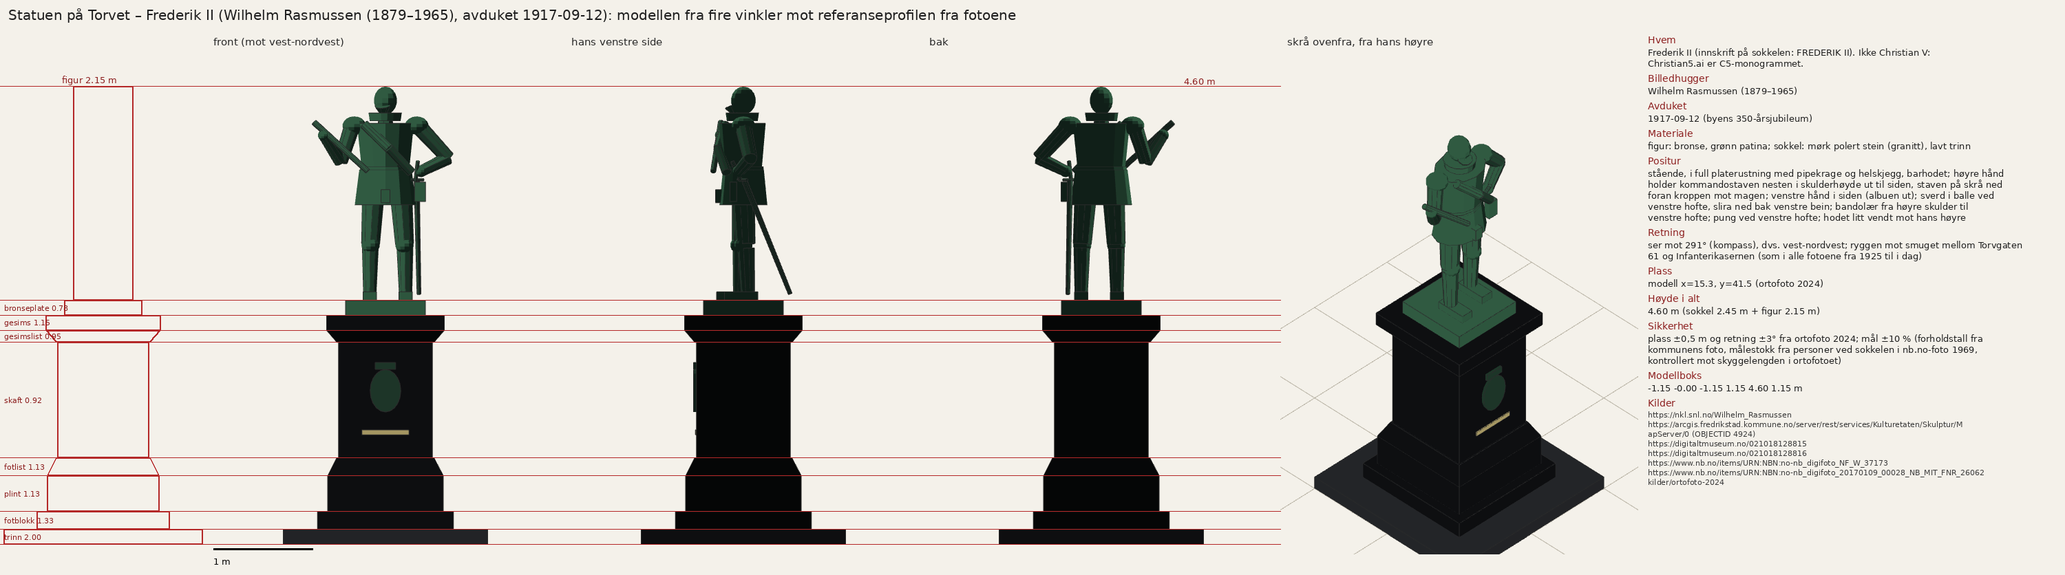
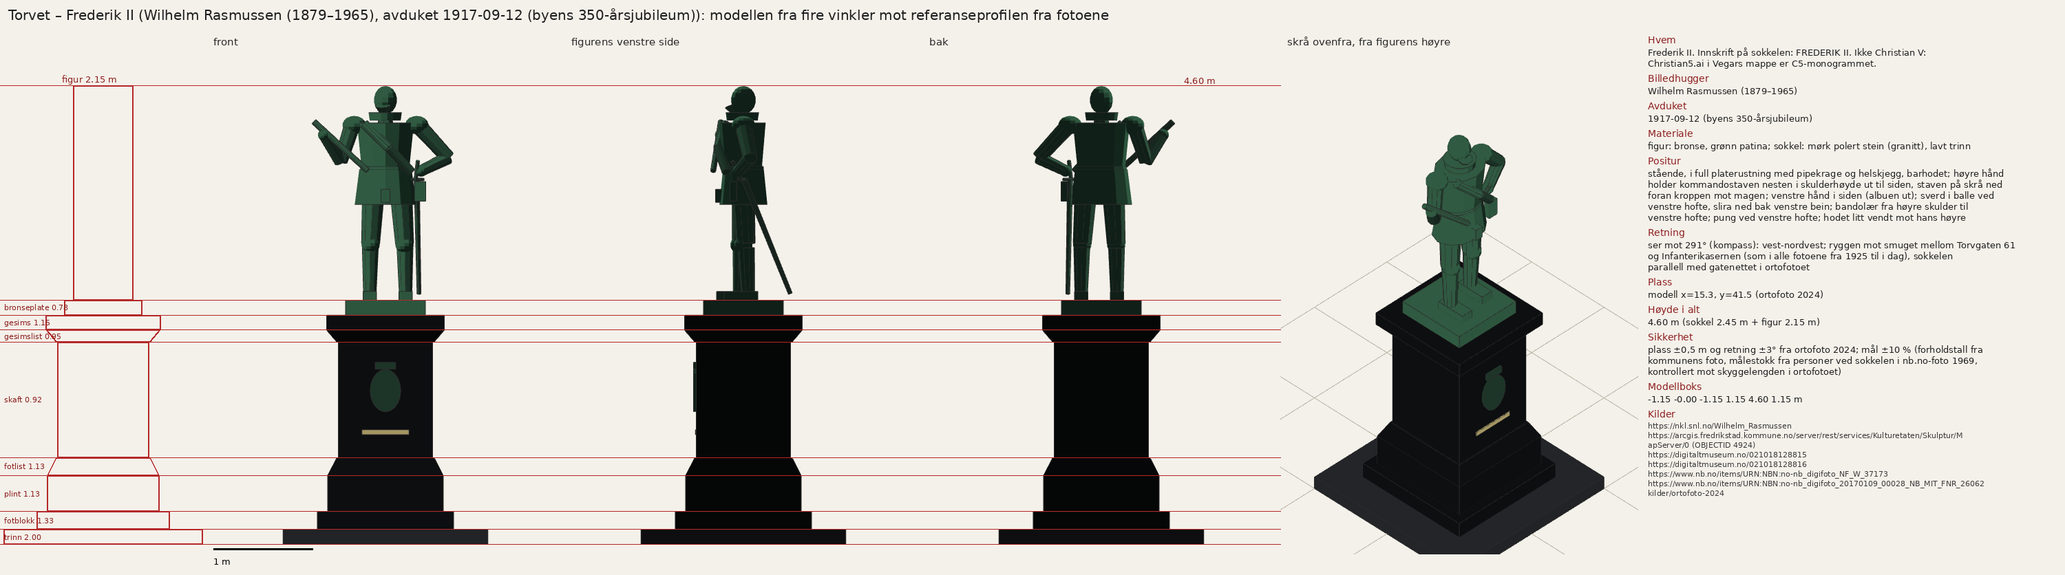
Sittende pike (Arne Durban, 1957–58) i Tamburparken, Vigelands minneplater i dataene; statuekoden generell (figur.form)
- data/statue.json: Sittende pike med plass fra ortofoto 2024, retning og mål fra fotoene; to minneplater med tegnes:false (bare kommunens punkt)
- src/20: FIGUR per form (rustning_stav, knelende_pike), sokkelledd med dybde og steinfarge fra dataene
- regel 22 og kontrollarkene gjelder alle postene

Claude-Session: https://claude.ai/code/session_01WG8cVDwFDBJncy2QxLUQWP

diff --git a/src/20_statuen-paa-torvet.js b/src/20_statuen-paa-torvet.js
@@ -1,77 +1,97 @@
-// ---- Statuen på Torvet: Frederik II (Wilhelm Rasmussen, bronse, avduket 12.09.1917) ----
+// ---- Statuer og skulpturer: Frederik II på Torvet (Wilhelm Rasmussen 1917), «Sittende pike» i Tamburparken (Arne Durban 1957/58) ----
 // Alle mål, retning og plass står i data/statue.json med kilder (KILDER.md). Koden tegner bare det dataene sier:
-// sokkelen er en stabel av kvadratiske ledd (b = bredde, b2 = bredde i toppen for skrå lister), figuren står på toppen
-// i sin egen ramme (+z = fram, -x = hans høyre side, føttene i y = 0) og skaleres til figur.h.
-// Retning: kompassgrader (0 = nord, med klokka) for veien statuen ser. Ny statue = ny post i dataene, ingen ny kode.
-(DATA.statue||[]).forEach(st=>{
+// sokkelen er en stabel av ledd (b = bredde, d = dybde om leddet ikke er kvadratisk, b2 = bredde i toppen for skrå lister,
+// stein: mørk | lys | bronse), figuren står på toppen i sin egen ramme (+z = fram, -x = figurens høyre side, y = 0 på sokkelen)
+// og skaleres til figur.h. figur.form velger figuren i FIGUR (en ny form = en ny funksjon her; en ny statue med kjent form = bare data).
+// Retning: kompassgrader (0 = nord, med klokka) for veien figuren ser. Poster med tegnes:false (plass ikke sikker) tegnes ikke.
+(()=>{
+const STEINFARGE={ 'mørk':[[66,68,72],[40,41,44]], lys:[[178,176,170],[124,122,118]], trinn:[[104,106,110],[66,67,70]], bronse:[[120,160,138],[70,98,86]] };
+const PATINA=[120,160,138], PATINA_S=[70,98,86], RELIEFF=[96,128,112], GULL=[214,206,170];
+const V=(a,b,c)=>new THREE.Vector3(a,b,c);
+// figurene: får verktøyene (del, lem, kule) og returnerer modellhøyden (isse over sokkelen) som figur.h skalerer til
+const FIGUR={
+  // Frederik II: platerustning, kommandostav i høyre hånd, venstre hånd i siden. Målene er lest av kommunens frontfoto (kunstregisteret,
+  // OBJECTID 4924) som andeler av høyden føtter–isse (kne 0,25, hoseskant 0,44, belte 0,59, skulder 0,81, hake 0,88),
+  // kontrollert mot Wilse 1931 og nb.no 1969.
+  rustning_stav({k,del,lem,kule}){
+    [[-0.14,0.03],[0.18,-0.04]].forEach(([fx,fz])=>{
+      del(new THREE.BoxGeometry(0.12,0.08,0.30),fx,0.04,fz+0.06);                // jernsko
+      lem(V(fx,0.08,fz),V(fx*0.97,0.48,fz*0.6),0.06,0.075);                     // legg
+      kule(0.082,V(fx*0.95,0.51,fz*0.5+0.02));                                   // kne
+      lem(V(fx*0.95,0.52,fz*0.5),V(fx*0.8,0.92,0),0.085,0.10);                  // lår
+    });
+    del(new THREE.CylinderGeometry(0.235,0.275,0.32,12),0,1.04,0).scale.set(1,1,0.78);   // pluderhoser/lårplater
+    del(new THREE.BoxGeometry(0.08,0.12,0.08),0,0.96,0.21);                      // skamkapsel
+    del(new THREE.CylinderGeometry(0.225,0.23,0.05,12),0,1.205,0).scale.set(1,1,0.8);    // belte
+    del(new THREE.CylinderGeometry(0.255,0.215,0.40,12),0,1.43,0.01).scale.set(1,1,0.82); // brystharnisk
+    kule(0.105,V(-0.28,1.61,0),1,0.8,1); kule(0.105,V(0.28,1.61,0),1,0.8,1);     // skulderplater
+    lem(V(-0.19,1.62,0.16),V(0.03,1.40,0.225),0.042,0.042); lem(V(0.03,1.40,0.225),V(0.23,1.18,0.15),0.042,0.042);   // bandolær
+    const hode=new THREE.Group(); hode.position.set(0,1.66,0.0); hode.rotation.y=-0.26; k.add(hode);             // litt mot hans høyre
+    del(new THREE.CylinderGeometry(0.06,0.07,0.12,8),0,0.0,0,hode);              // hals
+    del(new THREE.CylinderGeometry(0.15,0.14,0.07,16),0,0.03,0.01,hode);         // pipekrage
+    kule(0.115,V(0,0.18,0.0),0.92,1.12,1,hode);                                  // hode
+    const skjegg=del(new THREE.ConeGeometry(0.07,0.13,8),0,0.07,0.08,hode); skjegg.rotation.x=Math.PI+0.35;
+    const hS=V(-0.30,1.60,0), hA=V(-0.40,1.28,0.08), hH=V(-0.55,1.52,0.2);      // høyre arm, hånda nesten i skulderhøyde
+    lem(hS,hA,0.072,0.062); lem(hA,hH,0.06,0.05); kule(0.055,hH);
+    lem(V(-0.64,1.64,0.2),V(-0.16,1.19,0.27),0.026,0.024);                      // staven: litt over hånda, ned mot magen
+    const vS=V(0.30,1.60,0), vA=V(0.56,1.31,-0.06), vH=V(0.32,1.19,0.04);       // venstre arm i siden
+    lem(vS,vA,0.072,0.062); lem(vA,vH,0.06,0.05); kule(0.055,vH);
+    lem(V(0.27,1.10,0.02),V(0.29,1.28,0.1),0.016,0.016);                        // hjalt
+    lem(V(0.22,1.11,0.05),V(0.34,1.11,-0.03),0.012,0.012);                      // parerstang
+    lem(V(0.28,1.10,-0.01),V(0.30,0.06,-0.42),0.024,0.018);                     // slire bak venstre bein
+    del(new THREE.BoxGeometry(0.1,0.18,0.06),0.31,1.0,0.09);                    // pung
+    return 1.97;
+  },
+  // «Sittende pike»: naken jente som sitter på hælene, armene strake ned med hendene på knærne, overkroppen litt fram, hodet løftet
+  // (Fredrikstad Museum-foto 1958 og kommunens foto). Modellen er 0,88 til isse.
+  knelende_pike({k,del,lem,kule}){
+    [-0.1,0.1].forEach(sx=>{
+      lem(V(sx,0.06,0.30),V(sx*0.9,0.05,-0.12),0.055,0.045);                    // legg på sokkelen, kne fram
+      kule(0.06,V(sx,0.07,0.31));                                                // kne
+      lem(V(sx,0.08,0.30),V(sx*0.8,0.2,-0.06),0.065,0.085);                     // lår ned mot hælene
+    });
+    kule(0.15,V(0,0.2,-0.08),1.05,0.8,0.9);                                      // hofte/sete på hælene
+    lem(V(0,0.22,-0.07),V(0,0.62,0.03),0.12,0.105).scale.set(1,1,0.75);          // overkropp, litt fram
+    const skS=[V(-0.12,0.6,0.04),V(0.12,0.6,0.04)], hand=[V(-0.1,0.13,0.34),V(0.1,0.13,0.34)];
+    [0,1].forEach(i=>{ lem(skS[i],hand[i],0.035,0.028); kule(0.032,hand[i],1,0.7,1.3); });   // strake armer, hender på knærne
+    lem(V(0,0.62,0.04),V(0,0.7,0.06),0.035,0.035);                               // hals
+    const hode=new THREE.Group(); hode.position.set(0,0.78,0.08); hode.rotation.set(-0.2,-0.15,0); k.add(hode);   // løftet, litt til siden
+    kule(0.075,V(0,0,0),0.9,1.08,1,hode); kule(0.08,V(0,0.03,-0.015),1,0.9,1,hode);          // ansikt og hår (kort, fyldig)
+    return 0.88;
+  },
+};
+(DATA.statue||[]).filter(st=>st.tegnes!==false && st.figur && FIGUR[st.figur.form]).forEach(st=>{
   const g=new THREE.Group(); const [x,y]=st.xy;
-  const STEIN=[66,68,72], STEIN_S=[40,41,44], TRINN=[104,106,110], TRINN_S=[66,67,70];
-  const PATINA=[120,160,138], PATINA_S=[70,98,86], RELIEFF=[96,128,112], GULL=[214,206,170];
   const M=(f,sk)=>mat(f,false,sk,{ds:true});
   const legg=(geo,f,sk,px,py,pz,forelder=g)=>{ const m=new THREE.Mesh(geo,M(f,sk)); m.position.set(px,py,pz); m.castShadow=true; m.receiveShadow=true; forelder.add(m); return m; };
-  // kvadratisk ledd: rett blokk, eller avkortet pyramide (4 sider, dreid 45° så sidene står rett) når b2 er gitt
-  const ledd=(b,b2,h,y0,f,sk)=> b2==null
-    ? legg(new THREE.BoxGeometry(b,h,b),f,sk,0,y0+h/2,0)
-    : (m=>{ m.rotation.y=Math.PI/4; return m; })(legg(new THREE.CylinderGeometry(b2/Math.SQRT2,b/Math.SQRT2,h,4,1),f,sk,0,y0+h/2,0));
-  let y0=0, skaft=null;
+  // ledd: rett blokk (b x d), eller avkortet pyramide (4 sider, dreid 45°, så sidene står rett) når b2 er gitt (bare kvadratisk)
+  const ledd=(l,y0,f,sk)=> l.b2==null
+    ? legg(new THREE.BoxGeometry(l.b,l.h,l.d||l.b),f,sk,0,y0+l.h/2,0)
+    : (m=>{ m.rotation.y=Math.PI/4; return m; })(legg(new THREE.CylinderGeometry(l.b2/Math.SQRT2,l.b/Math.SQRT2,l.h,4,1),f,sk,0,y0+l.h/2,0));
+  let y0=0, front=null;
   (st.sokkel||[]).forEach(l=>{
-    const [f,sk]= l.del==='trinn' ? [TRINN,TRINN_S] : l.del==='bronseplate' ? [PATINA,PATINA_S] : [STEIN,STEIN_S];
-    ledd(l.b, l.b2, l.h, y0, f, sk);
-    if(l.del==='skaft') skaft={y0, h:l.h, b:l.b};
+    const stein=l.stein || (l.del==='trinn' ? 'trinn' : l.del==='bronseplate' ? 'bronse' : 'mørk');
+    const [f,sk]=STEINFARGE[stein]||STEINFARGE['mørk'];
+    ledd(l,y0,f,sk);
+    if(l.front) front={y0, h:l.h, d:l.d||l.b};
     y0+=l.h;
   });
-  // fronten på skaftet: kronet riksvåpen (relieff) over innskriften FREDERIK II (lys, som i fotoene)
-  if(skaft){ const zf=skaft.b/2+0.012;
-    const skjold=legg(new THREE.CylinderGeometry(0.15,0.15,0.03,20),RELIEFF,PATINA_S,0,skaft.y0+skaft.h*0.58,zf); skjold.rotation.x=Math.PI/2; skjold.scale.set(1,1,1.42);
-    legg(new THREE.BoxGeometry(0.2,0.07,0.03),RELIEFF,PATINA_S,0,skaft.y0+skaft.h*0.58+0.25,zf);            // krona
-    legg(new THREE.BoxGeometry(0.46,0.05,0.01),GULL,[150,144,116],0,skaft.y0+skaft.h*0.22,zf-0.008);          // innskriften
+  // fronten (leddet med «front» i dataene): kronet riksvåpen (relieff) over innskriften, som på Frederik II
+  if(front){ const zf=front.d/2+0.012;
+    const skjold=legg(new THREE.CylinderGeometry(0.15,0.15,0.03,20),RELIEFF,PATINA_S,0,front.y0+front.h*0.58,zf); skjold.rotation.x=Math.PI/2; skjold.scale.set(1,1,1.42);
+    legg(new THREE.BoxGeometry(0.2,0.07,0.03),RELIEFF,PATINA_S,0,front.y0+front.h*0.58+0.25,zf);            // krona
+    legg(new THREE.BoxGeometry(0.46,0.05,0.01),GULL,[150,144,116],0,front.y0+front.h*0.22,zf-0.008);          // innskriften
   }
-  // ---- figuren ----
   const k=new THREE.Group(); k.position.y=y0; g.add(k);
-  const V=(a,b,c)=>new THREE.Vector3(a,b,c);
   const del=(geo,px,py,pz,forelder=k)=>legg(geo,PATINA,PATINA_S,px,py,pz,forelder);
-  // lem mellom to punkter: sylinder med radius r1 (i a) og r2 (i b)
   const lem=(a,b,r1,r2,forelder=k)=>{ const d=b.clone().sub(a), L=d.length(); const m=del(new THREE.CylinderGeometry(r2,r1,L,10),(a.x+b.x)/2,(a.y+b.y)/2,(a.z+b.z)/2,forelder);
     m.quaternion.setFromUnitVectors(V(0,1,0), d.normalize()); return m; };
   const kule=(r,p,sx=1,sy=1,sz=1,forelder=k)=>{ const m=del(new THREE.SphereGeometry(r,12,9),p.x,p.y,p.z,forelder); m.scale.set(sx,sy,sz); return m; };
-  // bein: føttene ca. 0,3 m fra hverandre, venstre (+x) litt ut og bak; leggskinner, kneskåler, lårskinner
-  // Målene i figurens ramme er lest av kommunens frontfoto (kunstregisteret, OBJECTID 4924) som andeler av høyden føtter–isse
-  // (kne 0,25, hoseskant 0,44, belte 0,59, skulder 0,81, hake 0,88), kontrollert mot Wilse 1931 og nb.no 1969.
-  [[-0.14,0.03],[0.18,-0.04]].forEach(([fx,fz])=>{
-    del(new THREE.BoxGeometry(0.12,0.08,0.30),fx,0.04,fz+0.06);                // jernsko
-    lem(V(fx,0.08,fz),V(fx*0.97,0.48,fz*0.6),0.06,0.075);                     // legg
-    kule(0.082,V(fx*0.95,0.51,fz*0.5+0.02));                                   // kne
-    lem(V(fx*0.95,0.52,fz*0.5),V(fx*0.8,0.92,0),0.085,0.10);                  // lår
-  });
-  // pluderhoser/lårplater til hoseskanten, belte, brystharnisk (dypere foran: «peascod»)
-  del(new THREE.CylinderGeometry(0.235,0.275,0.32,12),0,1.04,0).scale.set(1,1,0.78);
-  del(new THREE.BoxGeometry(0.08,0.12,0.08),0,0.96,0.21);                      // skamkapsel
-  del(new THREE.CylinderGeometry(0.225,0.23,0.05,12),0,1.205,0).scale.set(1,1,0.8);
-  del(new THREE.CylinderGeometry(0.255,0.215,0.40,12),0,1.43,0.01).scale.set(1,1,0.82);
-  kule(0.105,V(-0.28,1.61,0),1,0.8,1); kule(0.105,V(0.28,1.61,0),1,0.8,1);     // skulderplater
-  // bandolær fra høyre skulder til venstre hofte, foran på harnisket
-  lem(V(-0.19,1.62,0.16),V(0.03,1.40,0.225),0.042,0.042); lem(V(0.03,1.40,0.225),V(0.23,1.18,0.15),0.042,0.042);
-  // hode: pipekrage, hode, helskjegg; vendt litt mot hans høyre
-  const hode=new THREE.Group(); hode.position.set(0,1.66,0.0); hode.rotation.y=-0.26; k.add(hode);
-  del(new THREE.CylinderGeometry(0.06,0.07,0.12,8),0,0.0,0,hode);              // hals
-  del(new THREE.CylinderGeometry(0.15,0.14,0.07,16),0,0.03,0.01,hode);         // pipekrage
-  kule(0.115,V(0,0.18,0.0),0.92,1.12,1,hode);                                  // hode
-  const skjegg=del(new THREE.ConeGeometry(0.07,0.13,8),0,0.07,0.08,hode); skjegg.rotation.x=Math.PI+0.35;
-  // høyre arm: albuen ned og ut, underarm opp; hånda nesten i skulderhøyde godt utenfor kroppen holder kommandostaven
-  const hS=V(-0.30,1.60,0), hA=V(-0.40,1.28,0.08), hH=V(-0.55,1.52,0.2);
-  lem(hS,hA,0.072,0.062); lem(hA,hH,0.06,0.05); kule(0.055,hH);
-  lem(V(-0.64,1.64,0.2),V(-0.16,1.19,0.27),0.026,0.024);                      // staven: litt over hånda, ned mot magen
-  // venstre arm i siden: albuen ut, hånda på hofta
-  const vS=V(0.30,1.60,0), vA=V(0.56,1.31,-0.06), vH=V(0.32,1.19,0.04);
-  lem(vS,vA,0.072,0.062); lem(vA,vH,0.06,0.05); kule(0.055,vH);
-  // sverd ved venstre hofte: hjalt og parerstang, slira på skrå ned bak venstre bein; pung foran
-  lem(V(0.27,1.10,0.02),V(0.29,1.28,0.1),0.016,0.016);                        // hjalt
-  lem(V(0.22,1.11,0.05),V(0.34,1.11,-0.03),0.012,0.012);                      // parerstang
-  lem(V(0.28,1.10,-0.01),V(0.30,0.06,-0.42),0.024,0.018);                     // slire
-  del(new THREE.BoxGeometry(0.1,0.18,0.06),0.31,1.0,0.09);                    // pung
-  k.scale.setScalar(((st.figur||{}).h||2.15)/1.97);                           // modellen er 1,97 m til isse
+  const hoyde=FIGUR[st.figur.form]({k,del,lem,kule});
+  k.scale.setScalar(st.figur.h/hoyde);
   // retning: kompassgrader -> rotasjon om y (lokal +z = fram); verden: x = øst, -z = nord
   const b=(st.retning||0)*Math.PI/180; g.rotation.y=Math.atan2(Math.sin(b),-Math.cos(b));
   g.scale.setScalar(st.visningsskala||1);
-  g.position.set(x,0,-y); g.userData={b:{navn:st.navn,adr:'Torvet',tekst:st.tekst}}; flatGruppe(g); city.add(g);
+  g.position.set(x,0,-y); g.userData={b:{navn:st.navn,adr:st.sted||'',tekst:st.tekst}}; flatGruppe(g); city.add(g);
 });
+})();

diff --git a/verktoy/statue_ark.py b/verktoy/statue_ark.py
@@ -1,5 +1,6 @@
 #!/usr/bin/env python3
-"""Kontrollark for statuen på Torvet: rapport/torvet/statue.png.
+"""Kontrollark for statuene og skulpturene i data/statue.json: rapport/torvet/statue.png (Frederik II, den første) og
+rapport/torvet/statue-<id>.png for de andre som tegnes.
 
     python3 verktoy/statue_ark.py
 
@@ -15,62 +16,65 @@ ROT = os.path.dirname(os.path.dirname(os.path.abspath(__file__)))
 UT = os.path.join(ROT, 'rapport', 'torvet'); os.makedirs(UT, exist_ok=True)
 import tempfile
 TMP = tempfile.mkdtemp(prefix='statue-')     # panelene er mellomprodukt
-subprocess.run(['node', os.path.join(ROT, 'verktoy', 'statue_ark.mjs'), os.path.join(TMP, 'statue.png')], check=True)
-meta = json.load(open(os.path.join(TMP, 'statue-vinkler.json'), encoding='utf8'))
-st = json.load(open(os.path.join(ROT, 'data', 'statue.json'), encoding='utf8'))[0]
-paneler = [Image.open(os.path.join(TMP, f'statue-{i}.png')).convert('RGB') for i in range(4)]
-W, H = paneler[0].size
-PXM = H / 5.25; Y0 = 2.4 - 2.5            # statue_ark.mjs: ortografisk, 5,25 m høyt, sentrum y = 2,4
-yp = lambda m: H - (m - Y0) * PXM         # meter over bakken -> rad i panelet (front/side/bak)
-def _skrift():
-    # en skrift med æøå: matplotlibs DejaVu (følger med pakken, samme på alle maskiner), ellers systemets, ellers Pillows innebygde
-    kand = []
-    try:
-        import matplotlib; kand.append(os.path.join(matplotlib.get_data_path(), 'fonts', 'ttf', 'DejaVuSans.ttf'))
-    except ImportError:
-        pass
-    kand += ['/usr/share/fonts/truetype/dejavu/DejaVuSans.ttf', '/Library/Fonts/Arial Unicode.ttf', '/System/Library/Fonts/Supplemental/Arial.ttf']
-    return next((k for k in kand if os.path.exists(k)), None)
-SKRIFT = _skrift()
-f = lambda s: ImageFont.truetype(SKRIFT, s) if SKRIFT else ImageFont.load_default(size=s)
-REF_W, TEKST_W, TOPP = 300, 620, 46
-ark = Image.new('RGB', (REF_W + 4 * W + TEKST_W, H + TOPP + 30), (244, 241, 234)); d = ImageDraw.Draw(ark)
-d.text((12, 10), f"Statuen på Torvet – {st['navn']} ({st['billedhugger']}, avduket {st['avduket']}): modellen fra fire vinkler mot referanseprofilen fra fotoene", fill=(30, 30, 30), font=f(20))
-# referanseprofil i samme målestokk
-cx = REF_W // 2; y = 0.0; linjer = []
-for l in st['sokkel']:
-    b0, b1 = l['b'], l.get('b2', l['b'])
-    pts = [(cx - b0 / 2 * PXM, TOPP + yp(y)), (cx + b0 / 2 * PXM, TOPP + yp(y)), (cx + b1 / 2 * PXM, TOPP + yp(y + l['h'])), (cx - b1 / 2 * PXM, TOPP + yp(y + l['h']))]
-    d.polygon(pts, outline=(180, 40, 40), width=2)
-    d.text((6, TOPP + yp(y + l['h'] / 2) - 7), f"{l['del']} {l['b']:.2f}", fill=(140, 30, 30), font=f(11))
-    y += l['h']; linjer.append(y)
-fh = st['figur']['h'] * st.get('visningsskala', 1)
-d.rectangle([cx - 0.3 * PXM, TOPP + yp(y + fh), cx + 0.3 * PXM, TOPP + yp(y)], outline=(180, 40, 40), width=2)
-d.text((cx - 60, TOPP + yp(y + fh) - 18), f"figur {st['figur']['h']:.2f} m", fill=(140, 30, 30), font=f(13))
-linjer.append(y + fh)
-for i, p in enumerate(paneler):
-    ark.paste(p, (REF_W + i * W, TOPP)); d.text((REF_W + i * W + 10, TOPP + 6), meta['vinkler'][i], fill=(40, 40, 40), font=f(15))
-for m in [0.0] + linjer:                   # hjelpelinjer gjennom referansen og de tre ortografiske panelene
-    yy = TOPP + yp(m); d.line([(0, yy), (REF_W + 3 * W, yy)], fill=(180, 40, 40), width=1)
-d.text((REF_W + 3 * W - 140, TOPP + yp(linjer[-1]) - 16), f"{linjer[-1]:.2f} m", fill=(140, 30, 30), font=f(13))
-# målestokk 1 m
-x0 = REF_W + 10; d.line([(x0, TOPP + H - 8), (x0 + PXM, TOPP + H - 8)], fill=(0, 0, 0), width=3); d.text((x0, TOPP + H + 2), '1 m', fill=(0, 0, 0), font=f(13))
-# tekst: hva kildene sier
-tx = REF_W + 4 * W + 14; ty = TOPP + 4
-rader = [('Hvem', f"{st['navn']} (innskrift på sokkelen: FREDERIK II). Ikke Christian V: Christian5.ai er C5-monogrammet."),
-         ('Billedhugger', st['billedhugger']), ('Avduket', f"{st['avduket']} (byens 350-årsjubileum)"),
-         ('Materiale', f"figur: {st['materiale']['figur']}; sokkel: {st['materiale']['sokkel']}"),
-         ('Positur', st['figur']['positur']), ('Retning', f"ser mot {st['retning']}° (kompass), dvs. vest-nordvest; ryggen mot smuget mellom Torvgaten 61 og Infanterikasernen (som i alle fotoene fra 1925 til i dag)"),
-         ('Plass', f"modell x={st['xy'][0]}, y={st['xy'][1]} (ortofoto 2024)"), ('Høyde i alt', f"{linjer[-1]:.2f} m (sokkel {linjer[-2]:.2f} m + figur {st['figur']['h']:.2f} m)"),
-         ('Sikkerhet', st['sikkerhet']), ('Modellboks', ' '.join(f'{v:.2f}' for v in meta['boks']) + ' m')]
-import textwrap
-for k, v in rader:
-    d.text((tx, ty), k, fill=(140, 30, 30), font=f(14)); ty += 18
-    for linje in textwrap.wrap(v, 78):
-        d.text((tx, ty), linje, fill=(30, 30, 30), font=f(13)); ty += 16
-    ty += 6
-d.text((tx, ty), 'Kilder', fill=(140, 30, 30), font=f(14)); ty += 18
-for k in st['kilder']:
-    for linje in textwrap.wrap(k, 82):
-        d.text((tx, ty), linje, fill=(60, 60, 60), font=f(11)); ty += 14
-ut = os.path.join(UT, 'statue.png'); ark.save(ut); print(ut, ark.size)
+alle = json.load(open(os.path.join(ROT, 'data', 'statue.json'), encoding='utf8'))
+for nr, st in enumerate([x for x in alle if x.get('tegnes', True)]):
+    subprocess.run(['node', os.path.join(ROT, 'verktoy', 'statue_ark.mjs'), os.path.join(TMP, 'statue.png'), str(nr)], check=True)
+    meta = json.load(open(os.path.join(TMP, 'statue-vinkler.json'), encoding='utf8'))
+    paneler = [Image.open(os.path.join(TMP, f'statue-{i}.png')).convert('RGB') for i in range(4)]
+    W, H = paneler[0].size
+    HT = sum(l['h'] for l in st['sokkel']) + st['figur']['h']; SK = max(HT * 1.14 / 5.25, 0.35)
+    PXM = H / (5.25 * SK); Y0 = (2.4 - 2.5) * SK   # statue_ark.mjs: ortografisk, 5,25*SK m høyt, sentrum y = 2,4*SK
+    yp = lambda m: H - (m - Y0) * PXM         # meter over bakken -> rad i panelet (front/side/bak)
+    def _skrift():
+        # en skrift med æøå: matplotlibs DejaVu (følger med pakken, samme på alle maskiner), ellers systemets, ellers Pillows innebygde
+        kand = []
+        try:
+            import matplotlib; kand.append(os.path.join(matplotlib.get_data_path(), 'fonts', 'ttf', 'DejaVuSans.ttf'))
+        except ImportError:
+            pass
+        kand += ['/usr/share/fonts/truetype/dejavu/DejaVuSans.ttf', '/Library/Fonts/Arial Unicode.ttf', '/System/Library/Fonts/Supplemental/Arial.ttf']
+        return next((k for k in kand if os.path.exists(k)), None)
+    SKRIFT = _skrift()
+    f = lambda s: ImageFont.truetype(SKRIFT, s) if SKRIFT else ImageFont.load_default(size=s)
+    REF_W, TEKST_W, TOPP = 300, 620, 46
+    ark = Image.new('RGB', (REF_W + 4 * W + TEKST_W, H + TOPP + 30), (244, 241, 234)); d = ImageDraw.Draw(ark)
+    d.text((12, 10), f"{st.get('sted', '')} – {st['navn']} ({st['billedhugger']}, avduket {st['avduket']}): modellen fra fire vinkler mot referanseprofilen fra fotoene", fill=(30, 30, 30), font=f(20))
+    # referanseprofil i samme målestokk
+    cx = REF_W // 2; y = 0.0; linjer = []
+    for l in st['sokkel']:
+        b0, b1 = l['b'], l.get('b2', l['b'])
+        pts = [(cx - b0 / 2 * PXM, TOPP + yp(y)), (cx + b0 / 2 * PXM, TOPP + yp(y)), (cx + b1 / 2 * PXM, TOPP + yp(y + l['h'])), (cx - b1 / 2 * PXM, TOPP + yp(y + l['h']))]
+        d.polygon(pts, outline=(180, 40, 40), width=2)
+        d.text((6, TOPP + yp(y + l['h'] / 2) - 7), f"{l['del']} {l['b']:.2f}", fill=(140, 30, 30), font=f(11))
+        y += l['h']; linjer.append(y)
+    fh = st['figur']['h'] * st.get('visningsskala', 1)
+    d.rectangle([cx - 0.3 * SK * PXM, TOPP + yp(y + fh), cx + 0.3 * SK * PXM, TOPP + yp(y)], outline=(180, 40, 40), width=2)
+    d.text((cx - 60, TOPP + yp(y + fh) - 18), f"figur {st['figur']['h']:.2f} m", fill=(140, 30, 30), font=f(13))
+    linjer.append(y + fh)
+    for i, p in enumerate(paneler):
+        ark.paste(p, (REF_W + i * W, TOPP)); d.text((REF_W + i * W + 10, TOPP + 6), meta['vinkler'][i], fill=(40, 40, 40), font=f(15))
+    for m in [0.0] + linjer:                   # hjelpelinjer gjennom referansen og de tre ortografiske panelene
+        yy = TOPP + yp(m); d.line([(0, yy), (REF_W + 3 * W, yy)], fill=(180, 40, 40), width=1)
+    d.text((REF_W + 3 * W - 140, TOPP + yp(linjer[-1]) - 16), f"{linjer[-1]:.2f} m", fill=(140, 30, 30), font=f(13))
+    # målestokk 1 m
+    x0 = REF_W + 10; d.line([(x0, TOPP + H - 8), (x0 + PXM, TOPP + H - 8)], fill=(0, 0, 0), width=3); d.text((x0, TOPP + H + 2), '1 m', fill=(0, 0, 0), font=f(13))
+    # tekst: hva kildene sier
+    tx = REF_W + 4 * W + 14; ty = TOPP + 4
+    rader = [('Hvem', f"{st['navn']}. {st.get('merknad', '')}"),
+             ('Billedhugger', st['billedhugger']), ('Avduket', st['avduket']),
+             ('Materiale', f"figur: {st['materiale']['figur']}; sokkel: {st['materiale']['sokkel']}"),
+             ('Positur', st['figur']['positur']), ('Retning', f"ser mot {st['retning']}° (kompass): {st.get('retning_grunn', '')}"),
+             ('Plass', f"modell x={st['xy'][0]}, y={st['xy'][1]} (ortofoto 2024)"), ('Høyde i alt', f"{linjer[-1]:.2f} m (sokkel {linjer[-2]:.2f} m + figur {st['figur']['h']:.2f} m)"),
+             ('Sikkerhet', st['sikkerhet']), ('Modellboks', ' '.join(f'{v:.2f}' for v in meta['boks']) + ' m')]
+    import textwrap
+    for k, v in rader:
+        d.text((tx, ty), k, fill=(140, 30, 30), font=f(14)); ty += 18
+        for linje in textwrap.wrap(v, 78):
+            d.text((tx, ty), linje, fill=(30, 30, 30), font=f(13)); ty += 16
+        ty += 6
+    d.text((tx, ty), 'Kilder', fill=(140, 30, 30), font=f(14)); ty += 18
+    for k in st['kilder']:
+        for linje in textwrap.wrap(k, 82):
+            d.text((tx, ty), linje, fill=(60, 60, 60), font=f(11)); ty += 14
+    ut = os.path.join(UT, 'statue.png' if nr == 0 else f"statue-{st['id']}.png"); ark.save(ut); print(ut, ark.size)
+

diff --git a/regler/22_statue.py b/regler/22_statue.py
@@ -1,38 +1,42 @@
-"""Regel: statuen på Torvet er tegnet etter kildene, ikke gjettet.
-- data/statue.json har navn, billedhugger, år, materiale, plass, retning, figurhøyde, sokkelledd og kilde-URL-er
-- retningen står vinkelrett på gatenettet (data/gatevinkel.json) innen ±5°: sokkelen står parallelt med husene rundt torget,
-  slik ortofotoet og alle fotoene viser
-- plassen står på åpen grunn (ikke i et hus, minst 4 m til nærmeste husvegg) og innen 1,5 m fra sokkelens midtpunkt målt i ortofoto 2024
-- total høyde (sokkel + figur) innen 4,2–5,2 m: skyggen i ortofotoet (5,6 m lang mot nord-nordvest) og solhøyden gir ca. 4,7 m
-- tegnekoden (src/20_statuen-paa-torvet.js) leser mål, retning og plass fra dataene
+"""Regel: statuer og skulpturer (data/statue.json) er tegnet etter kildene, ikke gjettet.
+- hver post har navn, billedhugger, plass og kilde-URL-er; poster som tegnes har også år, materiale, retning, figur (form og høyde) og sokkel
+- en post som ikke tegnes (tegnes: false), har en grunn (f.eks. plassen er bare kommunens registerpunkt og ses ikke i ortofotoet)
+- kontroll.ortofoto_xy: plassen står innen 1,5 m fra midtpunktet målt i ortofoto 2024; plassen er på åpen grunn (ikke i et hus)
+- kontroll.gatenett: retningen står vinkelrett på gatenettet (data/gatevinkel.json) innen ±5° (Frederik II: sokkelen parallell med husene)
+- kontroll.hoyde: høyden i alt (sokkel + figur) ligger i intervallet som skyggen i ortofotoet gir
+- tegnekoden (src/20_statuen-paa-torvet.js) leser mål, retning og plass fra dataene, og har en figur for hver form i dataene
 Bevis: rapport/torvet/statue.png (python3 verktoy/statue_ark.py) og rapport/torvet/statue-i-kartet.png."""
 import os, re
 from _felles import *
 from shapely.geometry import Polygon, Point
 from shapely.ops import unary_union
 
-ORTOFOTO_MIDT = (15.3, 41.5)        # sokkelens midtpunkt lest i ortofoto 2024 (0,125 m/px), 29.10
-HOYDE_SKYGGE = (4.2, 5.2)
 feil, linjer = [], []
 S = data('statue'); bygg = data('bygg')
 gv = float(open(os.path.join(ROT, 'data', 'gatevinkel.json')).read().strip())
 hus = unary_union([Polygon(b['p']).buffer(0) for b in bygg if not b.get('skjul') and len(b['p']) >= 3])
+kode = open(os.path.join(ROT, 'src', '20_statuen-paa-torvet.js'), encoding='utf8').read()
 for st in S:
-    n = st.get('navn', '?')
-    for felt in ('navn', 'billedhugger', 'avduket', 'materiale', 'xy', 'retning', 'figur', 'sokkel', 'kilder'):
+    n = st.get('navn', '?'); tegnes = st.get('tegnes', True)
+    for felt in ('navn', 'billedhugger', 'xy', 'kilder') + (('avduket', 'materiale', 'retning', 'figur', 'sokkel') if tegnes else ('grunn',)):
         if not st.get(felt): feil.append(f"- {n}: mangler {felt}")
     if not all(str(k).startswith(('http', 'kilder/')) for k in st.get('kilder', [])): feil.append(f"- {n}: kilde som ikke er URL eller kildefil")
-    avvik = ((st.get('retning', 0) - (90 - gv)) + 45) % 90 - 45
-    if abs(avvik) > 5: feil.append(f"- {n}: retningen {st.get('retning')}° står {avvik:+.0f}° på skrå mot gatenettet ({gv}°)")
-    pt = Point(*st['xy'])
-    if hus.contains(pt) or hus.distance(pt) < 4: feil.append(f"- {n}: står {hus.distance(pt):.1f} m fra en husvegg (krav 4 m)")
-    a = pt.distance(Point(*ORTOFOTO_MIDT))
-    if a > 1.5: feil.append(f"- {n}: {a:.1f} m fra sokkelen i ortofotoet")
+    if not tegnes:
+        linjer.append(f"{n} ({st.get('billedhugger')}): tegnes ikke – {st.get('grunn')}"); continue
+    form = st.get('figur', {}).get('form')
+    if not re.search(r'\b' + re.escape(str(form)) + r'\s*\(', kode): feil.append(f"- {n}: tegnekoden har ingen figur «{form}»")
+    K = st.get('kontroll', {}); pt = Point(*st['xy']); tekst = []
+    if hus.contains(pt): feil.append(f"- {n}: står inne i et hus")
+    if 'ortofoto_xy' in K:
+        a = pt.distance(Point(*K['ortofoto_xy'])); tekst.append(f"{a:.1f} m fra ortofotomålingen")
+        if a > 1.5: feil.append(f"- {n}: {a:.1f} m fra plassen målt i ortofotoet")
+    if K.get('gatenett'):
+        avvik = ((st.get('retning', 0) - (90 - gv)) + 45) % 90 - 45; tekst.append(f"{avvik:+.1f}° fra gatenettet")
+        if abs(avvik) > 5: feil.append(f"- {n}: retningen {st.get('retning')}° står {avvik:+.0f}° på skrå mot gatenettet ({gv}°)")
     h = sum(l['h'] for l in st.get('sokkel', [])) + st.get('figur', {}).get('h', 0)
-    if not HOYDE_SKYGGE[0] <= h <= HOYDE_SKYGGE[1]: feil.append(f"- {n}: total høyde {h:.2f} m passer ikke skyggen i ortofotoet ({HOYDE_SKYGGE[0]}–{HOYDE_SKYGGE[1]} m)")
-    linjer.append(f"{n} ({st.get('billedhugger')}, {st.get('avduket')}): {h:.2f} m høy, ser mot {st.get('retning')}° ({avvik:+.1f}° fra gatenettet), "
-                  f"{a:.1f} m fra sokkelen i ortofotoet, {hus.distance(pt):.1f} m til nærmeste hus")
-kode = open(os.path.join(ROT, 'src', '20_statuen-paa-torvet.js'), encoding='utf8').read()
+    if 'hoyde' in K and not K['hoyde'][0] <= h <= K['hoyde'][1]:
+        feil.append(f"- {n}: høyden {h:.2f} m passer ikke skyggen i ortofotoet ({K['hoyde'][0]}–{K['hoyde'][1]} m)")
+    linjer.append(f"{n} ({st.get('billedhugger')}, {st.get('avduket')}): {h:.2f} m høy, ser mot {st.get('retning')}°, " + ', '.join(tekst))
 for k in ('st.sokkel', 'st.retning', 'st.xy', 'st.figur'):
     if k not in kode: feil.append(f"- tegnekoden leser ikke {k} fra dataene")
 if not S: feil.append('- data/statue.json er tom')

diff --git a/KILDER.md b/KILDER.md
@@ -26,6 +26,7 @@
 | gront.p (klippet) | Rettelse: grøntflate minus parkering/belagt målt i ortofotoet | gr-3 ved Kongstenhallen |
 | parkering | Fredrikstad kommune, TekniskDrift/Parkering lag 1 (plasser: navn, type, antall, sonekode/EasyPark, automat, kommentar), kilder/parkering-kommunen.json, hentet 29.10 (uendret siden 28.10; men data/parkering.json var bygd 27.10 og hadde Tolboden med 42 plasser, som laget ikke lenger oppgir). Regler og 2026-priser fra kommunens sider (kilder/parkering-regler.json, URL per regel). Flaten målt i ortofoto 2024: kilder/flater-maalt.json (27.10) og kilder/parkering-maalt.json (29.10). Lages av verktoy/parkering.py, regel 21 | id = parkering-1-<OBJECTID>, kommunens nøkkel. Antall bare der ANTALL står i laget, ellers «antall_kilde: ukjent …». EasyPark-kodene er kommunens (feltet EASYPARK); EasyParks eget register er ikke åpent og er ikke kontrollert. NVDB har ingen parkeringsskilt i Gamlebyen (kommunale skilt). Lisens ikke oppgitt (data.norge.no: «ingen vilkår») |
 | statue | Frederik II (innskrift FREDERIK II), Wilhelm Rasmussen, bronse, avduket 12.09.1917: Norsk kunstnerleksikon https://nkl.snl.no/Wilhelm_Rasmussen («Fredrik 2, torget, Gamlebyen, Fredrikstad (bronse 1917)»); Fredrikstad kommunes skulpturregister (Kulturetaten/Skulptur lag 0, OBJECTID 4924, med foto); DigitaltMuseum 021018128815 og 021018128816 (Fredrikstad Museum, postkort 1925/1929, avduket 12.09.1917); nb.no NF.W 37173 (Wilse 1931) og FNR 26062/26063 (1969). Plass og retning: ortofoto 2024 (sokkelen ses ovenfra, kantene parallelle med gatenettet 69°; ryggen mot smuget mellom Torvgaten 61 og Infanterikasernen, som i alle fotoene). Mål: forholdstall lest i kommunens frontfoto, målestokk fra personer ved sokkelen (nb.no 1969), kontrollert mot skyggelengden i ortofotoet (ca. 4,7 m i alt). Ingen av fotoene ligger i repoet | Mål ±10 %, plass ±0,5 m, retning ±3°. Kommunens registerpunkt står 6,6 m nord for sokkelen (omtrentlig), ortofotoet går foran. Christian5.ai (Dropbox) er C5-monogrammet (Christian V), ikke en statue. Regel 22 |
+| statue (andre skulpturer innenfor vollene) | Fredrikstad kommunes skulpturregister (Kulturetaten/Skulptur, lag 0), OSM (tourism=artwork/historic, via OSM-API-et 29.10) og DigitaltMuseum. «Sittende pike», Arne Durban, bronse på granittblokk, gave fra overskuddet etter Brostevnet 1957, fotografert på plass 1958 (DigitaltMuseum 021018481722, kommunen OBJECTID 4923): plass målt i ortofoto 2024 (79,6, 152,7; 0,6 m fra kommunens punkt), tegnes (form knelende_pike). Per Vigelands minnestein «restaurert 1961–1994» (OBJECTID 5541) og minneplaten med Harald Vs monogram 24.08.1994 (OBJECTID 5556): liggende plater under trær, bare kommunens punkt, står i dataene med tegnes:false | OSM har bare Fredrik II innenfor vollene (node 1981132038, 0,3 m fra ortofotomålingen). Minnesmerket over falne 1940–45 står inne i kirka (OBJECTID 6190), ikke med. Kvinnefiguren på trestubben ved Voldporten (Street View 2010) finnes ikke i kommunens register, OSM eller DigitaltMuseum og ses ikke sikkert i ortofotoet 2024: ikke tegnet |
 | flater (grus, heller, asfalt) | Målt for hånd i ortofoto 2024 (kilder/flater-maalt.json), id fl-<løpenummer> | ±2 m |
 
 Modellkoordinater: meter, x = øst, y = nord, origo ca. 59,202835 N 10,952745 Ø (utledet 23.10 fra kirka og statuen, ±3 m).

diff --git a/LESMEG.md b/LESMEG.md
@@ -152,10 +152,10 @@ kaller den samme koden.
     python3 verktoy/parkering.py lag        data/parkering.json
     python3 verktoy/parkering.py ark [orto] rapport/torvet/parkering.png (orto: på ortofotoet, bare lokalt)
 
-Statuen er Frederik II (Wilhelm Rasmussen, bronse, 1917). data/statue.json har plass, retning (kompassgrader), sokkelleddene og
-figurhøyden med kilder; src/20_statuen-paa-torvet.js tegner bare det dataene sier (sokkel som stabel av kvadratiske ledd, figuren i
+Statuen er Frederik II (Wilhelm Rasmussen, bronse, 1917); i Tamburparken står «Sittende pike» (Arne Durban, 1957–58). data/statue.json har
+plass, retning (kompassgrader), sokkelleddene, figurens form og høyde med kilder (poster med tegnes:false har bare kommunens punkt); src/20_statuen-paa-torvet.js tegner bare det dataene sier (sokkel som stabel av kvadratiske ledd, figuren i
 platerustning med kommandostav og hånd i siden). `visningsskala` i dataene er 1 (virkelig størrelse; før 29.10 stod den på 1,3 som i
-tegningen). Kontrollark: `python3 verktoy/statue_ark.py` (fire vinkler mot referanseprofilen). Regel 21 og 22 passer på dette.
+tegningen). Kontrollark: `python3 verktoy/statue_ark.py` (fire vinkler mot referanseprofilen, ett ark per skulptur). Regel 21 og 22 passer på dette.
 
 ## Oppsett på en ny maskin
 Python 3 med opencv-python-headless, numpy, scipy, shapely, pyproj, tifffile og pymupdf (kommunekartet); Node 22 og `npm install` (ESLint til regel 08); Playwright med Chromium til nettlesertestene.

diff --git a/rapport/22_statue.md b/rapport/22_statue.md
@@ -1,5 +1,8 @@
 # 22_statue: OK
 
-Frederik II (Wilhelm Rasmussen (1879–1965), 1917-09-12): 4.60 m høy, ser mot 291° (+0.0° fra gatenettet), 0.0 m fra sokkelen i ortofotoet, 20.0 m til nærmeste hus
+Frederik II (Wilhelm Rasmussen (1879–1965), 1917-09-12 (byens 350-årsjubileum)): 4.60 m høy, ser mot 291°, 0.0 m fra ortofotomålingen, +0.0° fra gatenettet
+Sittende pike (Arne Durban (1912–1993), 1957–58 (gave fra overskuddet etter Brostevnet 1957; fotografert på plass 1958)): 1.21 m høy, ser mot 270°, 0.0 m fra ortofotomålingen
+Minnestein over restaureringen av festningen 1961–1994 (Per Vigeland): tegnes ikke – bare kommunens registerpunkt; platen ligger under trær og ses ikke i ortofotoet (kommunens punkt for Torvet-statuen var 6,6 m feil), så den tegnes ikke før plassen er målt
+Minneplate med kongemonogram, Harald V (Per Vigeland): tegnes ikke – bare kommunens registerpunkt; under trær, ses ikke i ortofotoet; tegnes ikke før plassen er målt
 
 Bevis: rapport/torvet/statue.png
